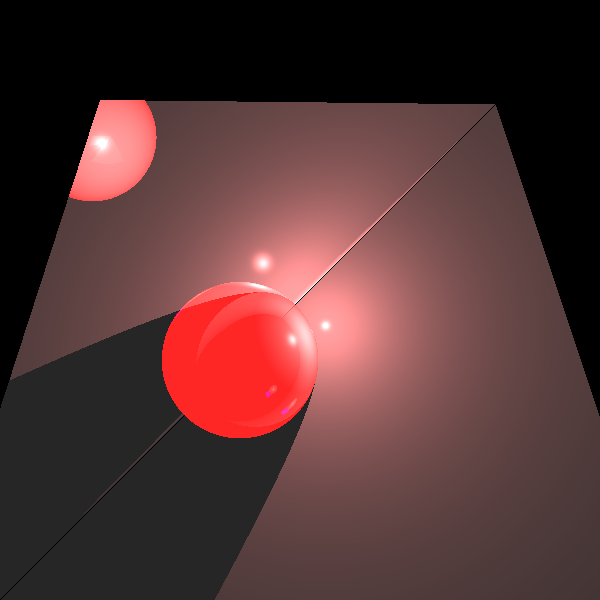
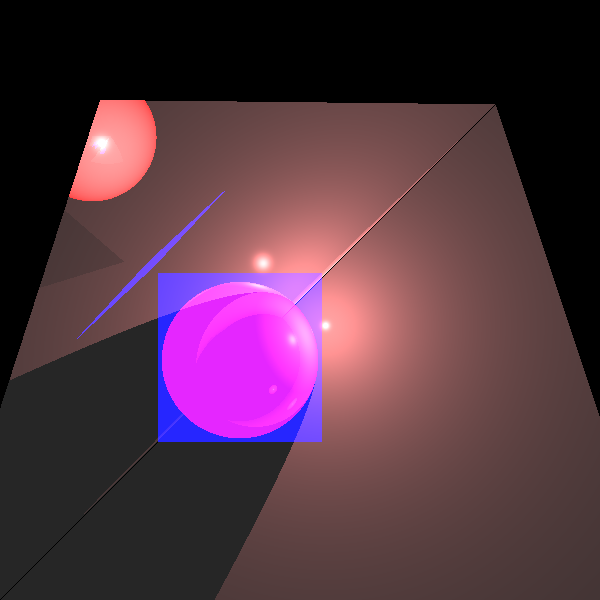
21/5

diff --git a/src/unittests/ReflectionRefractionTests.java b/src/unittests/ReflectionRefractionTests.java
@@ -142,8 +142,9 @@ public class ReflectionRefractionTests {
 						.setMaterial(new Material().setkR(0.5).setkD(0.5).setnShininess(30).setkS(0.5)),
 				new Sphere(new Point3D(169, -190, -30), 30).setEmmission(new Color(java.awt.Color.RED))
 						.setMaterial(new Material().setkR(0.5).setkD(0.5).setnShininess(30).setkS(0.5)),
-				new Polygon(new Point3D(113,-200,-20), new Point3D(157,-178,-20), new Point3D(226,-270,-20),
-						new Point3D(185,-302,-20)).setEmmission(new Color(java.awt.Color.BLUE)));
+				new Polygon(new Point3D(-52, -52, -100), new Point3D(-52, 10, -100), new Point3D(8, 10, -100),
+						new Point3D(8, -52, -100)).setEmmission(new Color(java.awt.Color.BLUE))
+								.setMaterial(new Material().setkT(0.75)));
 		scene.lights.add(new PointLight(new Color(500, 250, 250), new Point3D(10, -10, -130)) //
 				.setkL(0.0001).setkQ(0.000005));
 		ImageWriter imageWriter = new ImageWriter("trilili", 600, 600);
